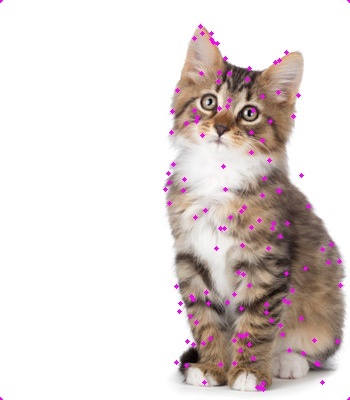
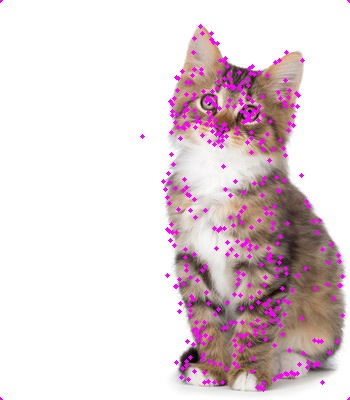
hardcode a max number of points for SIFT

diff --git a/py-detect-features/lambda_function.py b/py-detect-features/lambda_function.py
@@ -102,7 +102,7 @@ def identify_points_by_key_points(img, radius):
     """
 
     gray = cv2.cvtColor(img, cv2.COLOR_BGR2GRAY)
-    sift = cv2.xfeatures2d.SIFT_create()
+    sift = cv2.xfeatures2d.SIFT_create(1000)
     key_points = sift.detect(gray, None)
 
     # # Get desciptors but not sure what that helps with
@@ -117,7 +117,8 @@ def identify_points_by_key_points(img, radius):
         key_points
     )
 
-    points = filter_points(points, radius)
+    # points = filter_points(points, radius)
+    print "NUM POINTS:", len(points)
 
     return points
 
